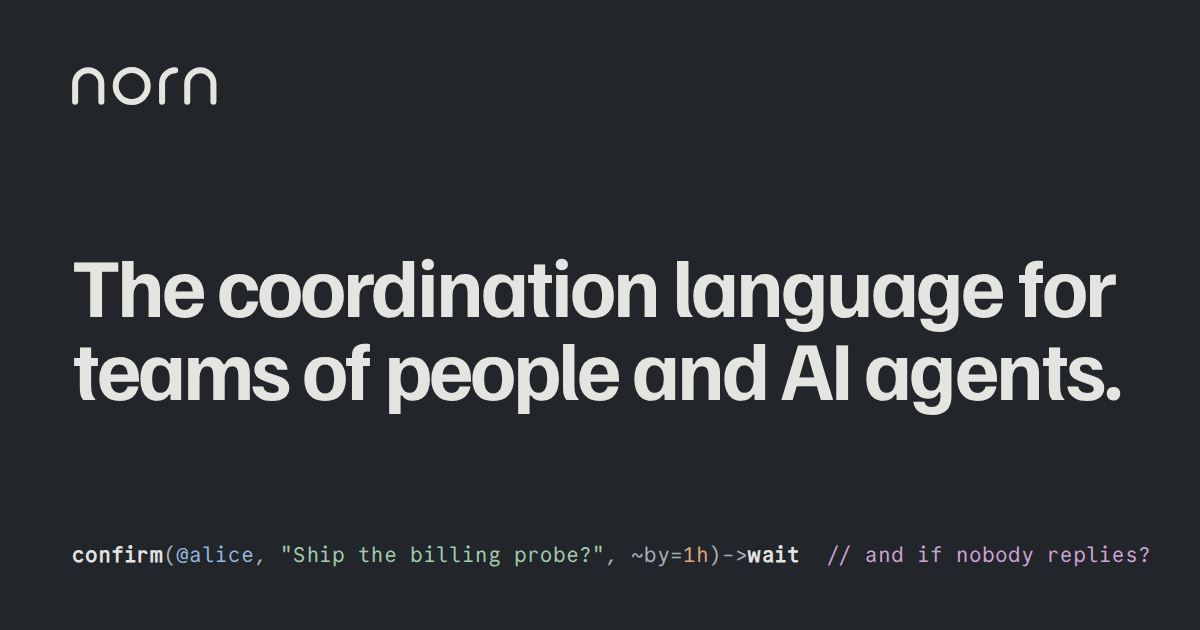
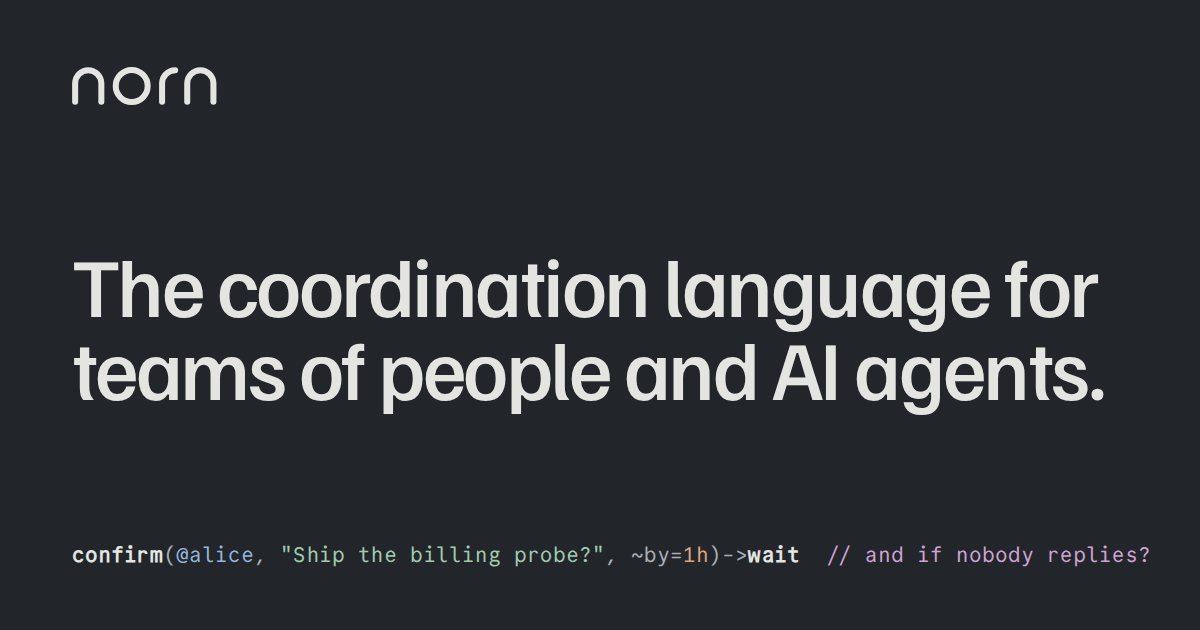
Set the headlines in the weight of the navigation (#2)
The heavy, tight headline did not sit with the thin strokes of the wordmark
and the medium navigation beside it. Headlines are now medium, and the
smaller headings semibold.

Changed region(s): [[0.0617, 0.3921, 0.9558, 0.6635], [0.0617, 0.4222, 0.1233, 0.4524]]

diff --git a/styles.css b/styles.css
@@ -265,9 +265,9 @@ time {
 .hero h1 {
   max-width: 13.5em;
   font-size: clamp(42px, 7.1vw, 92px);
-  font-weight: 700;
-  line-height: 0.98;
-  letter-spacing: -0.035em;
+  font-weight: 500;
+  line-height: 1;
+  letter-spacing: -0.03em;
   text-wrap: balance;
 }
 
@@ -337,7 +337,7 @@ time {
 
 .sim-head h2 {
   font-size: clamp(27px, 3.2vw, 40px);
-  font-weight: 700;
+  font-weight: 500;
   line-height: 1.05;
   letter-spacing: -0.025em;
 }
@@ -566,7 +566,7 @@ time {
 .story .ev-end {
   padding-bottom: 0;
   font-size: 19px;
-  font-weight: 700;
+  font-weight: 600;
 }
 
 .story .ev-end time {
@@ -600,14 +600,14 @@ time {
 
 .band-title {
   font-size: clamp(34px, 4.6vw, 58px);
-  font-weight: 700;
+  font-weight: 500;
   line-height: 1.02;
   letter-spacing: -0.03em;
 }
 
 .band h3 {
   font-size: 23px;
-  font-weight: 700;
+  font-weight: 600;
   line-height: 1.2;
   letter-spacing: -0.01em;
 }
@@ -788,7 +788,7 @@ time {
 
 .name h2 {
   font-size: 23px;
-  font-weight: 700;
+  font-weight: 600;
   letter-spacing: -0.01em;
 }
 
@@ -831,9 +831,9 @@ time {
 .lost h1 {
   max-width: 12em;
   font-size: clamp(42px, 7.1vw, 92px);
-  font-weight: 700;
-  line-height: 0.98;
-  letter-spacing: -0.035em;
+  font-weight: 500;
+  line-height: 1;
+  letter-spacing: -0.03em;
 }
 
 .lost p {
